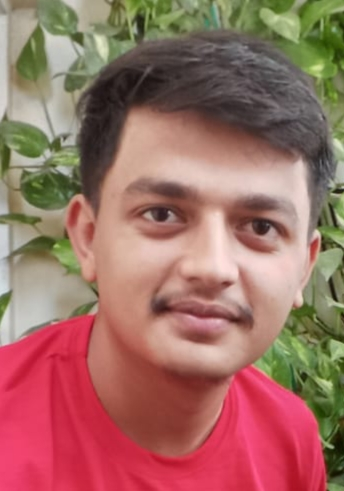
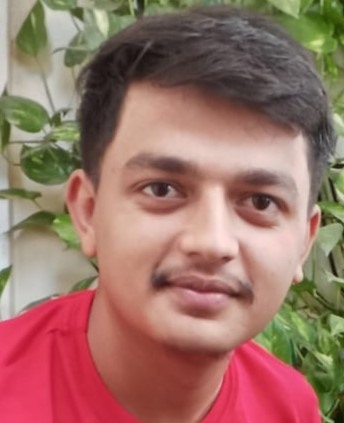
image size

diff --git a/frontend/src/Components/AboutUs.js b/frontend/src/Components/AboutUs.js
@@ -33,42 +33,42 @@ function AboutUs() {
         <br/>    
         <div className="row">
             <div className="col-sm">
-                <img className=" z-depth-2 mb-3" alt="100x100" src={JS} style={{"width": "200px", "borderRadius":"10px"}} data-holder-rendered="true" />
+                <img className=" z-depth-2 mb-3" alt="100x100" src={JS} style={{"width": "180px","height":"180px", "borderRadius":"10px"}} data-holder-rendered="true" />
                 <h5 className="mb-2"><strong>Jaskaran Singh</strong></h5>
             </div>
             <div className="col-sm">
-                <img className=" z-depth-2 mb-3" alt="100x100" src={AA} style={{"width": "190px", "borderRadius":"10px"}} data-holder-rendered="true" />
+                <img className=" z-depth-2 mb-3" alt="100x100" src={AA} style={{"width": "180px","height":"180px","borderRadius":"10px"}} data-holder-rendered="true" />
                 <h5 className="mb-2"><strong>Anurag Agarwal</strong></h5>
             </div>
             <div className="col-sm">
-                <img className=" z-depth-2 mb-3" alt="100x100" src={DSJ} style={{"width": "180px", "borderRadius":"10px"}} data-holder-rendered="true" />
+                <img className=" z-depth-2 mb-3" alt="100x100" src={DSJ} style={{"width": "180px","height":"180px", "borderRadius":"10px"}} data-holder-rendered="true" />
                 <h5 className="mb-2"><strong>Deepkamal Singh Jassal</strong></h5>
             </div>
             <div className="col-sm">
-                <img className=" z-depth-2 mb-3" alt="100x100" src={SKS} style={{"width": "180px", "borderRadius":"10px"}} data-holder-rendered="true" />
+                <img className=" z-depth-2 mb-3" alt="100x100" src={SKS} style={{"width": "180px","height":"180px", "borderRadius":"10px"}} data-holder-rendered="true" />
                 <h5 className="mb-2"><strong>Saurabh Kumar Singh</strong></h5>
             </div>
         </div>
         <div className="row">
             <div className="col-sm">
-                <img className="mt-3 z-depth-2 mb-3" alt="100x100" src={KS} style={{"width": "180px", "borderRadius":"10px"}} data-holder-rendered="true" />
+                <img className="z-depth-2 mb-3" alt="100x100" src={KS} style={{"width": "180px","height":"180px","borderRadius":"10px"}} data-holder-rendered="true" />
                 <h5 className="mb-2"><strong>Krishanu saini</strong></h5>
             </div>
             <div className="col-sm">
-                <img className=" z-depth-2 mb-3" alt="100x100" src={MT} style={{"width": "180px", "borderRadius":"10px"}} data-holder-rendered="true" />
+                <img className=" z-depth-2 mb-3" alt="100x100" src={MT} style={{"width": "180px","height":"180px", "borderRadius":"10px"}} data-holder-rendered="true" />
                 <h5 className="mb-2"><strong>Mayank tayal</strong></h5>
             </div>
             <div className="col-sm">
-                <img className=" z-depth-2 mb-3" alt="100x100" src={NS} style={{"width": "160px", "borderRadius":"10px"}} data-holder-rendered="true" />
+                <img className=" z-depth-2 mb-3" alt="100x100" src={NS} style={{"width": "180px","height":"180px", "borderRadius":"10px"}} data-holder-rendered="true" />
                 <h5 className="mb-2"><strong>Nishchay Shroff</strong></h5>
             </div>
             <div className="col-sm">
-                <img className=" z-depth-2 mb-3" alt="100x100" src={NL} style={{"width": "170px", "borderRadius":"10px"}} data-holder-rendered="true" />
+                <img className=" z-depth-2 mb-3" alt="100x100" src={NL} style={{"width": "180px","height":"180px", "borderRadius":"10px"}} data-holder-rendered="true" />
                 <h5 className="mb-2"><strong>Nishkarsh luthra</strong></h5>
             </div>
         <div className="row">           
             <div className="col-sm">
-                <img className=" z-depth-2 mb-3" alt="100x100" src={KT} style={{"width": "180px", "borderRadius":"10px"}} data-holder-rendered="true" /> 
+                <img className=" z-depth-2 mb-3" alt="100x100" src={KT} style={{"width": "180px","height":"180px", "borderRadius":"10px"}} data-holder-rendered="true" /> 
                 <h5 className="mb-2"><strong>Karri Trived</strong></h5>
             </div>
         </div>
@@ -80,15 +80,15 @@ function AboutUs() {
         <br/>
         <div className="row">
             <div className="col-sm">
-                <img className=" z-depth-2 mb-3" alt="100x100" src={SN} style={{"width": "170px", "borderRadius":"10px"}} data-holder-rendered="true" />
+                <img className=" z-depth-2 mb-3" alt="100x100" src={SN} style={{"width": "180px","height":"180px", "borderRadius":"10px"}} data-holder-rendered="true" />
                 <h5 className="mb-2"><strong>Sarthak Nandre</strong></h5>
             </div>
             <div className="col-sm">
-                <img className=" z-depth-2 mb-3" alt="100x100" src={KA} style={{"width": "170px", "borderRadius":"10px"}} data-holder-rendered="true" />
+                <img className=" z-depth-2 mb-3" alt="100x100" src={KA} style={{"width": "180px","height":"180px", "borderRadius":"10px"}} data-holder-rendered="true" />
                 <h5 className="mb-2"><strong>Krish Agarwal</strong></h5>
             </div>
             <div className="col-sm">
-                <img className=" z-depth-2 mb-3" alt="100x100" src={PV} style={{"width": "180px", "borderRadius":"10px"}} data-holder-rendered="true" />
+                <img className=" z-depth-2 mb-3" alt="100x100" src={PV} style={{"width": "180px","height":"180px", "borderRadius":"10px"}} data-holder-rendered="true" />
                 <h5 className="mb-2"><strong>P.V.Sekhar</strong></h5>
             </div>
         </div>
@@ -99,25 +99,25 @@ function AboutUs() {
         <br/>
         <div className="row">
             <div className="col-sm">
-                <img className=" z-depth-2 mb-3" alt="100x100" src={JS} style={{"width": "200px", "borderRadius":"10px"}} data-holder-rendered="true" />
+                <img className=" z-depth-2 mb-3" alt="100x100" src={JS} style={{"width": "180px","height":"180px", "borderRadius":"10px"}} data-holder-rendered="true" />
                 <h5 className="mb-2"><strong>Jaskaran Singh</strong></h5>
             </div>
             <div className="col-sm">
-                <img className=" z-depth-2 mb-3" alt="100x100" src={GM} style={{"width": "150px", "borderRadius":"10px"}} data-holder-rendered="true" />
+                <img className=" z-depth-2 mb-3" alt="100x100" src={GM} style={{"width": "180px","height":"180px", "borderRadius":"10px"}} data-holder-rendered="true" />
                 <h5 className="mb-2"><strong>Gaurav</strong></h5>
             </div>
             <div className="col-sm">
-                <img className=" z-depth-2 mb-3" alt="100x100" src={PV} style={{"width": "180px", "borderRadius":"10px"}} data-holder-rendered="true" />
+                <img className=" z-depth-2 mb-3" alt="100x100" src={PV} style={{"width": "180px","height":"180px","borderRadius":"10px"}} data-holder-rendered="true" />
                 <h5 className="mb-2"><strong>P.V.Sekhar</strong></h5>
             </div>
             <div className="col-sm">
-                <img className=" z-depth-2 mb-3" alt="100x100" src={IP} style={{"width": "130px", "borderRadius":"10px"}} data-holder-rendered="true" />
+                <img className=" z-depth-2 mb-3" alt="100x100" src={IP} style={{"width": "180px","height":"180px","borderRadius":"10px"}} data-holder-rendered="true" />
                 <h5 className="mb-2"><strong>Ishaan Porwal</strong></h5>
             </div>
         </div>
         <div className="row">
             <div className="col-sm">
-                <img className=" z-depth-2 mb-3" alt="100x100" src={AK} style={{"width": "150px", "borderRadius":"10px"}} data-holder-rendered="true" />
+                <img className=" z-depth-2 mb-3" alt="100x100" src={AK} style={{"width": "180px","height":"180px", "borderRadius":"10px"}} data-holder-rendered="true" />
                 <h5 className="mb-2"><strong>Anjani</strong></h5>
             </div>
         </div>
@@ -128,19 +128,19 @@ function AboutUs() {
         <br/>     
         <div className="row">
             <div className="col-sm">
-                <img className=" z-depth-2 mb-3" alt="100x100" src={MP} style={{"width": "150px", "borderRadius":"10px"}} data-holder-rendered="true" />
+                <img className=" z-depth-2 mb-3" alt="100x100" src={MP} style={{"width": "180px","height":"180px", "borderRadius":"10px"}} data-holder-rendered="true" />
                 <h5 className="mb-2"><strong>Mihir Patel</strong></h5>
             </div>
             <div className="col-sm">
-                <img className=" z-depth-2 mb-3" alt="100x100" src={RD} style={{"width": "200px", "borderRadius":"10px"}} data-holder-rendered="true" />
+                <img className=" z-depth-2 mb-3" alt="100x100" src={RD} style={{"width": "180px","height":"180px", "borderRadius":"10px"}} data-holder-rendered="true" />
                 <h5 className="mb-2"><strong>Rohit Dhanotia</strong></h5>
             </div>
             <div className="col-sm">
-                <img className=" z-depth-2 mb-3" alt="100x100" src={TW} style={{"width": "180px", "borderRadius":"10px"}} data-holder-rendered="true" />
+                <img className=" z-depth-2 mb-3" alt="100x100" src={TW} style={{"width": "180px","height":"180px", "borderRadius":"10px"}} data-holder-rendered="true" />
                 <h5 className="mb-2"><strong>Tanvi Warvadekar</strong></h5>
             </div>
             <div className="col-sm">
-                <img className=" z-depth-2 mb-3" alt="100x100" src={VS} style={{"width": "200px", "borderRadius":"10px"}} data-holder-rendered="true" />
+                <img className=" z-depth-2 mb-3" alt="100x100" src={VS} style={{"width": "180px","height":"180px", "borderRadius":"10px"}} data-holder-rendered="true" />
                 <h5 className="mb-2"><strong>Vineet</strong></h5>
             </div>
         </div>

diff --git a/frontend/src/Components/SignUp.js b/frontend/src/Components/SignUp.js
@@ -19,6 +19,7 @@ function SignUp() {
   const [difficulty, setDifficulty] = React.useState("beginner");
   const [alert, setAlert] = React.useState("none");
   const [alertmsg, setAlertMsg] = React.useState("Something went wrong! Please Try Again!");
+  const [passerr,setPasserr] = React.useState("")
   const handleRegister = () => {
     axios
       .post("https://p-club-iiti-cp.herokuapp.com/register", {
@@ -49,6 +50,8 @@ function SignUp() {
     else setDisabled(true);
     if (name === "" || email === "" || password === "") setDisabled(true);
     if (email.split("@").at(-1) !== "iiti.ac.in") setDisabled(true);
+    if(password !== confirmPassword) setPasserr("Passwords Dont Match");
+    else setPasserr("");
   }, [password, confirmPassword]);
 
   return (
@@ -64,7 +67,7 @@ function SignUp() {
         <div className="container outer">
           <div className="whitebox signup_container" id="signContain">
           <h1 className="text-center heading centerTop">REGISTER</h1>
-            <div class="leftCol">
+            <div className="leftCol">
               <div className="mb-3 inputs" style={{ textAlign: "left" }}>
                 <label className="form-label auth">Name</label>
                 <br />
@@ -126,7 +129,7 @@ function SignUp() {
                 <br />
               </div>
             </div>
-            <div class="rightCol">
+            <div className="rightCol">
               <div className="mb-3 inputs" style={{ textAlign: "left" }}>
                 <label className="form-label auth">Difficulty</label>
                 <p className="signfaq"> &nbsp;Confused what to choose? <Link to="/" className="signfaq2">Click here</Link></p>                
@@ -176,8 +179,11 @@ function SignUp() {
                 />
                 <br />
               </div>
+              <div className="pass">
+              <p>{passerr}</p>
             </div>
-            <div class="centerRow">
+            </div>            
+            <div className="centerRow">
               <button
                 className="btnsignup"
                 type="submit"

diff --git a/frontend/src/Components/Style.css b/frontend/src/Components/Style.css
@@ -456,6 +456,10 @@ table{
 {  
   padding: 0
 }
+.pass{
+    color: rgb(250, 39, 39);
+    padding-left: 5%;    
+}
 @media(max-width: 992px){
     .slidecont{
         margin-left: 10px;
@@ -493,6 +497,9 @@ table{
     .h4x{
         font-size: 20px;
     }    
+    .pass{
+        font-size: 14px;
+    }    
     .instalink{        
         -webkit-background-clip: text;
         -webkit-text-fill-color: transparent; 
@@ -508,6 +515,9 @@ table{
         -moz-background-clip: text;
         -moz-text-fill-color: transparent;
         background-image: linear-gradient(45deg, #0084ff,cyan, #ffffff);        
+    }
+    .alert{
+        font-size: 10px;
     }
 }
 

diff --git a/frontend/src/Components/Style2.css b/frontend/src/Components/Style2.css
@@ -589,7 +589,8 @@ footer{
     font-size: 15px;
   }
   .btnx{
-    margin-bottom: 5%;
+    margin-bottom: 1%;
+    font-size: 18px;
   }
   .btnred{
     font-size: 15px;
@@ -714,8 +715,8 @@ footer{
     font-size: 12px;
   }
   .btnx{
-    font-size: 20px;
-    margin-bottom: 5%;
+    font-size: 12px;
+    margin-bottom: 3%;
   }  
   .btnred{
     padding-left: 9%;
@@ -742,11 +743,13 @@ footer{
 }
 @media (max-width: 500px) {
   .btnx{
-    font-size: 13px;
-    padding: 1%;
+    font-size: 10px;
+    margin-bottom: 4%;
+    padding: 0;
+    border-radius: 1px;
     padding-left: 2%;
     padding-right: 2%;
-  }
+  }  
   .prc{
     font-size: 10px;
   }

diff --git a/frontend/src/Components/Footer.js b/frontend/src/Components/Footer.js
@@ -3,8 +3,8 @@ import React from 'react'
 function Footer() {
   return (
     <>
-    <footer className="text-center text-white">
-      <h2 className="thanksNote" align="center">Thanks For Visiting!</h2>
+    <footer className="text-center text-white">      
+      <h2 className="pt-3 thanksNote" align="center">Thanks For Visiting!</h2>
       <h6 className='contact'>Contact Details : Jaskaran Singh - <span className="small">8872150472</span></h6>
       <div className="container p-4 pb-0">
         <section>
